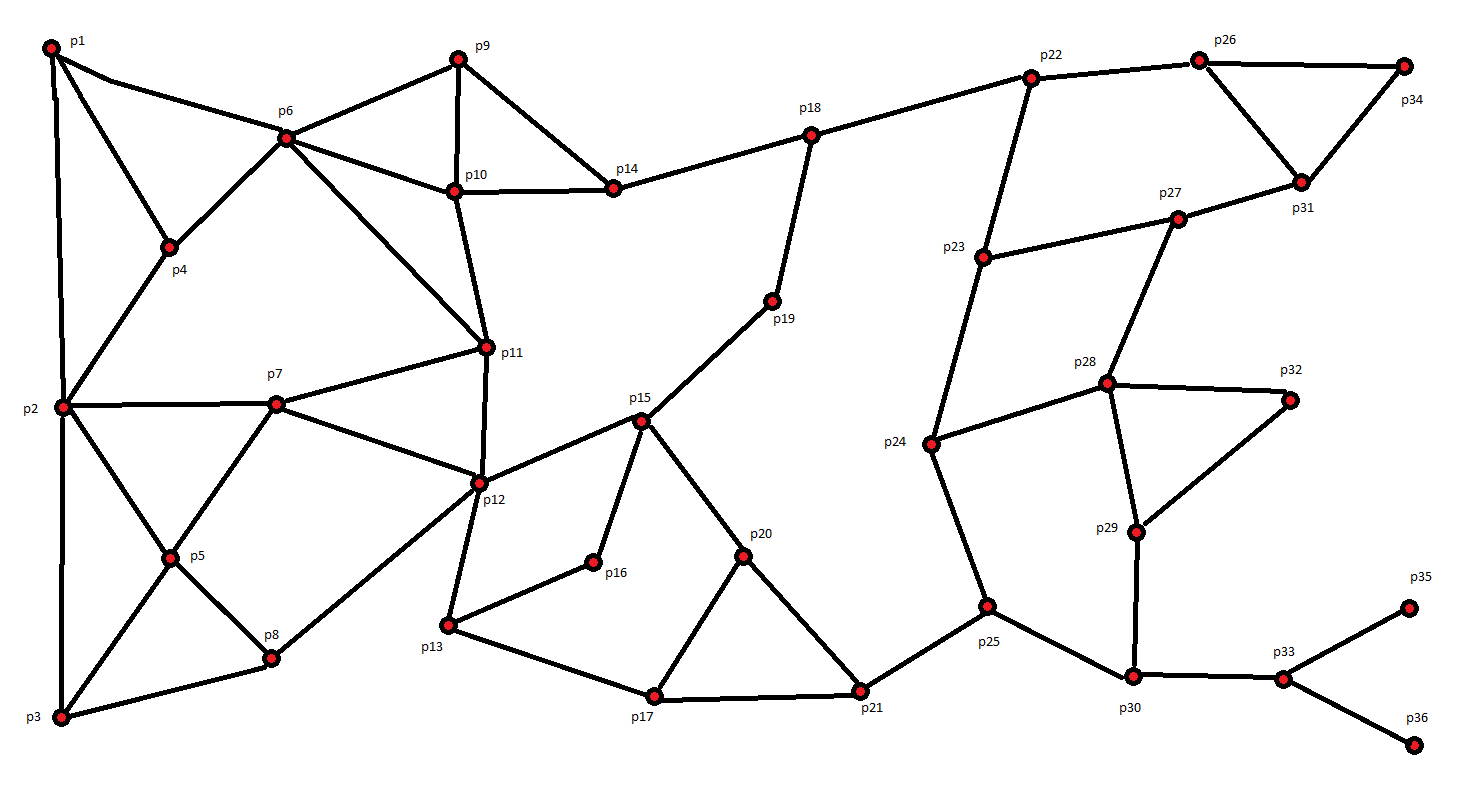
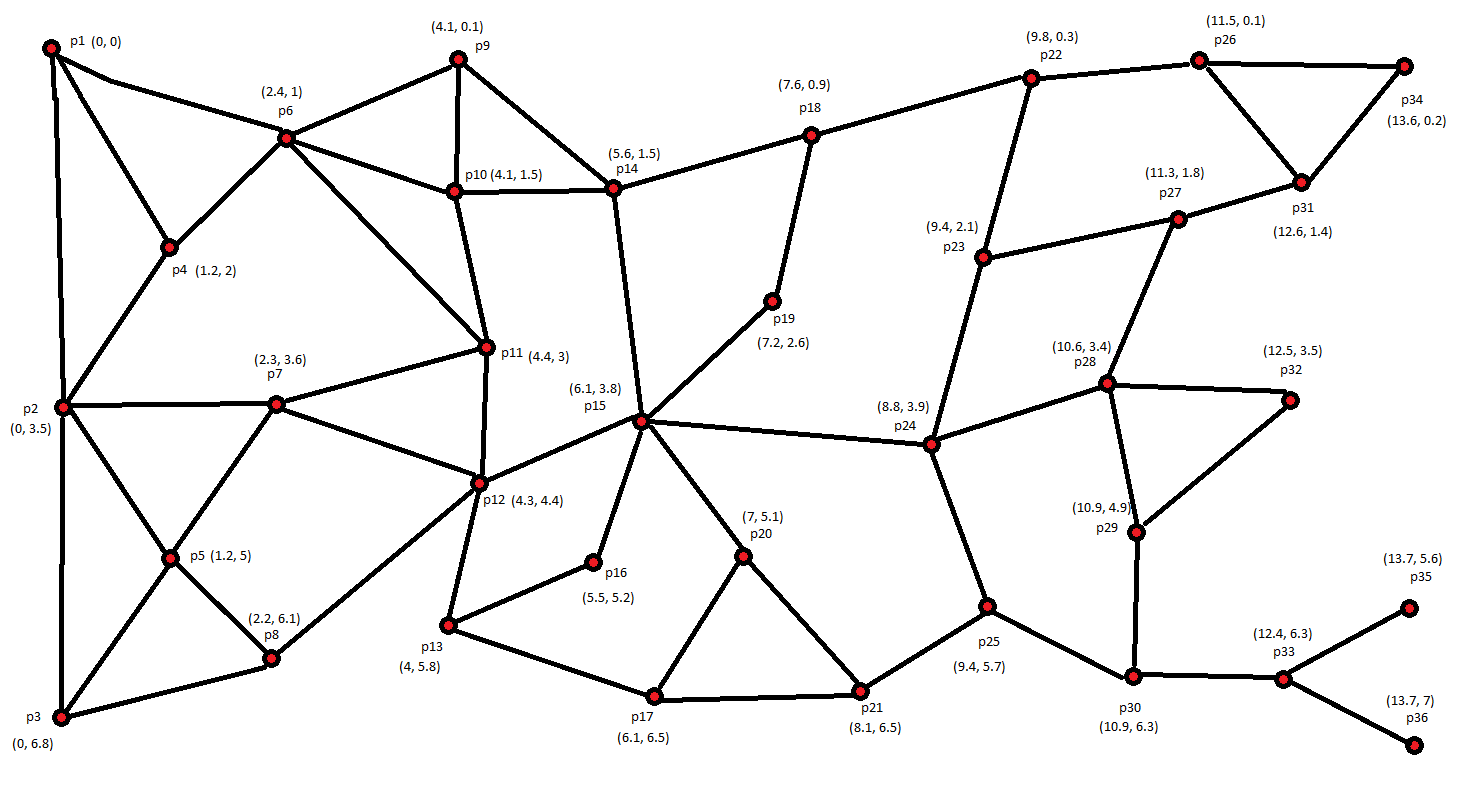
grafe.png now shows coordinates

diff --git a/rinsim/src/main/java/rinsim/Pod.java b/rinsim/src/main/java/rinsim/Pod.java
@@ -110,7 +110,7 @@ class Pod extends Vehicle {
 		if((((currentTime - getLastMove()) > 600000) || (getDesire().isEmpty() && movingQueue.isEmpty())) && (currentTime - getLastRefresh() > 90000)) {
 			Station dest = null;
 			setLastRefresh(currentTime);
-			System.out.println("jappenss");
+			
 			// Reset the desire if the pod is retrying because of inactivity. This for possible deadlock resolution.
 			if(currentTime - getLastMove() > 10000)
 				getDesire().clear();
@@ -237,6 +237,8 @@ class Pod extends Vehicle {
 					
 				// If no intentions had been found and there are no passengers at the current station: add this destination to the failed list.
 				} else if (currentStation.getPassengers().isEmpty()){
+					if(PeopleMover.DEBUGGING) 
+						System.err.println("The pod at " + rm.getPosition(this) + " was unable to find intentions outwards to " + dest.getPosition() +".");
 					getFailedDestinations().add(dest);
 					return;
 				}
